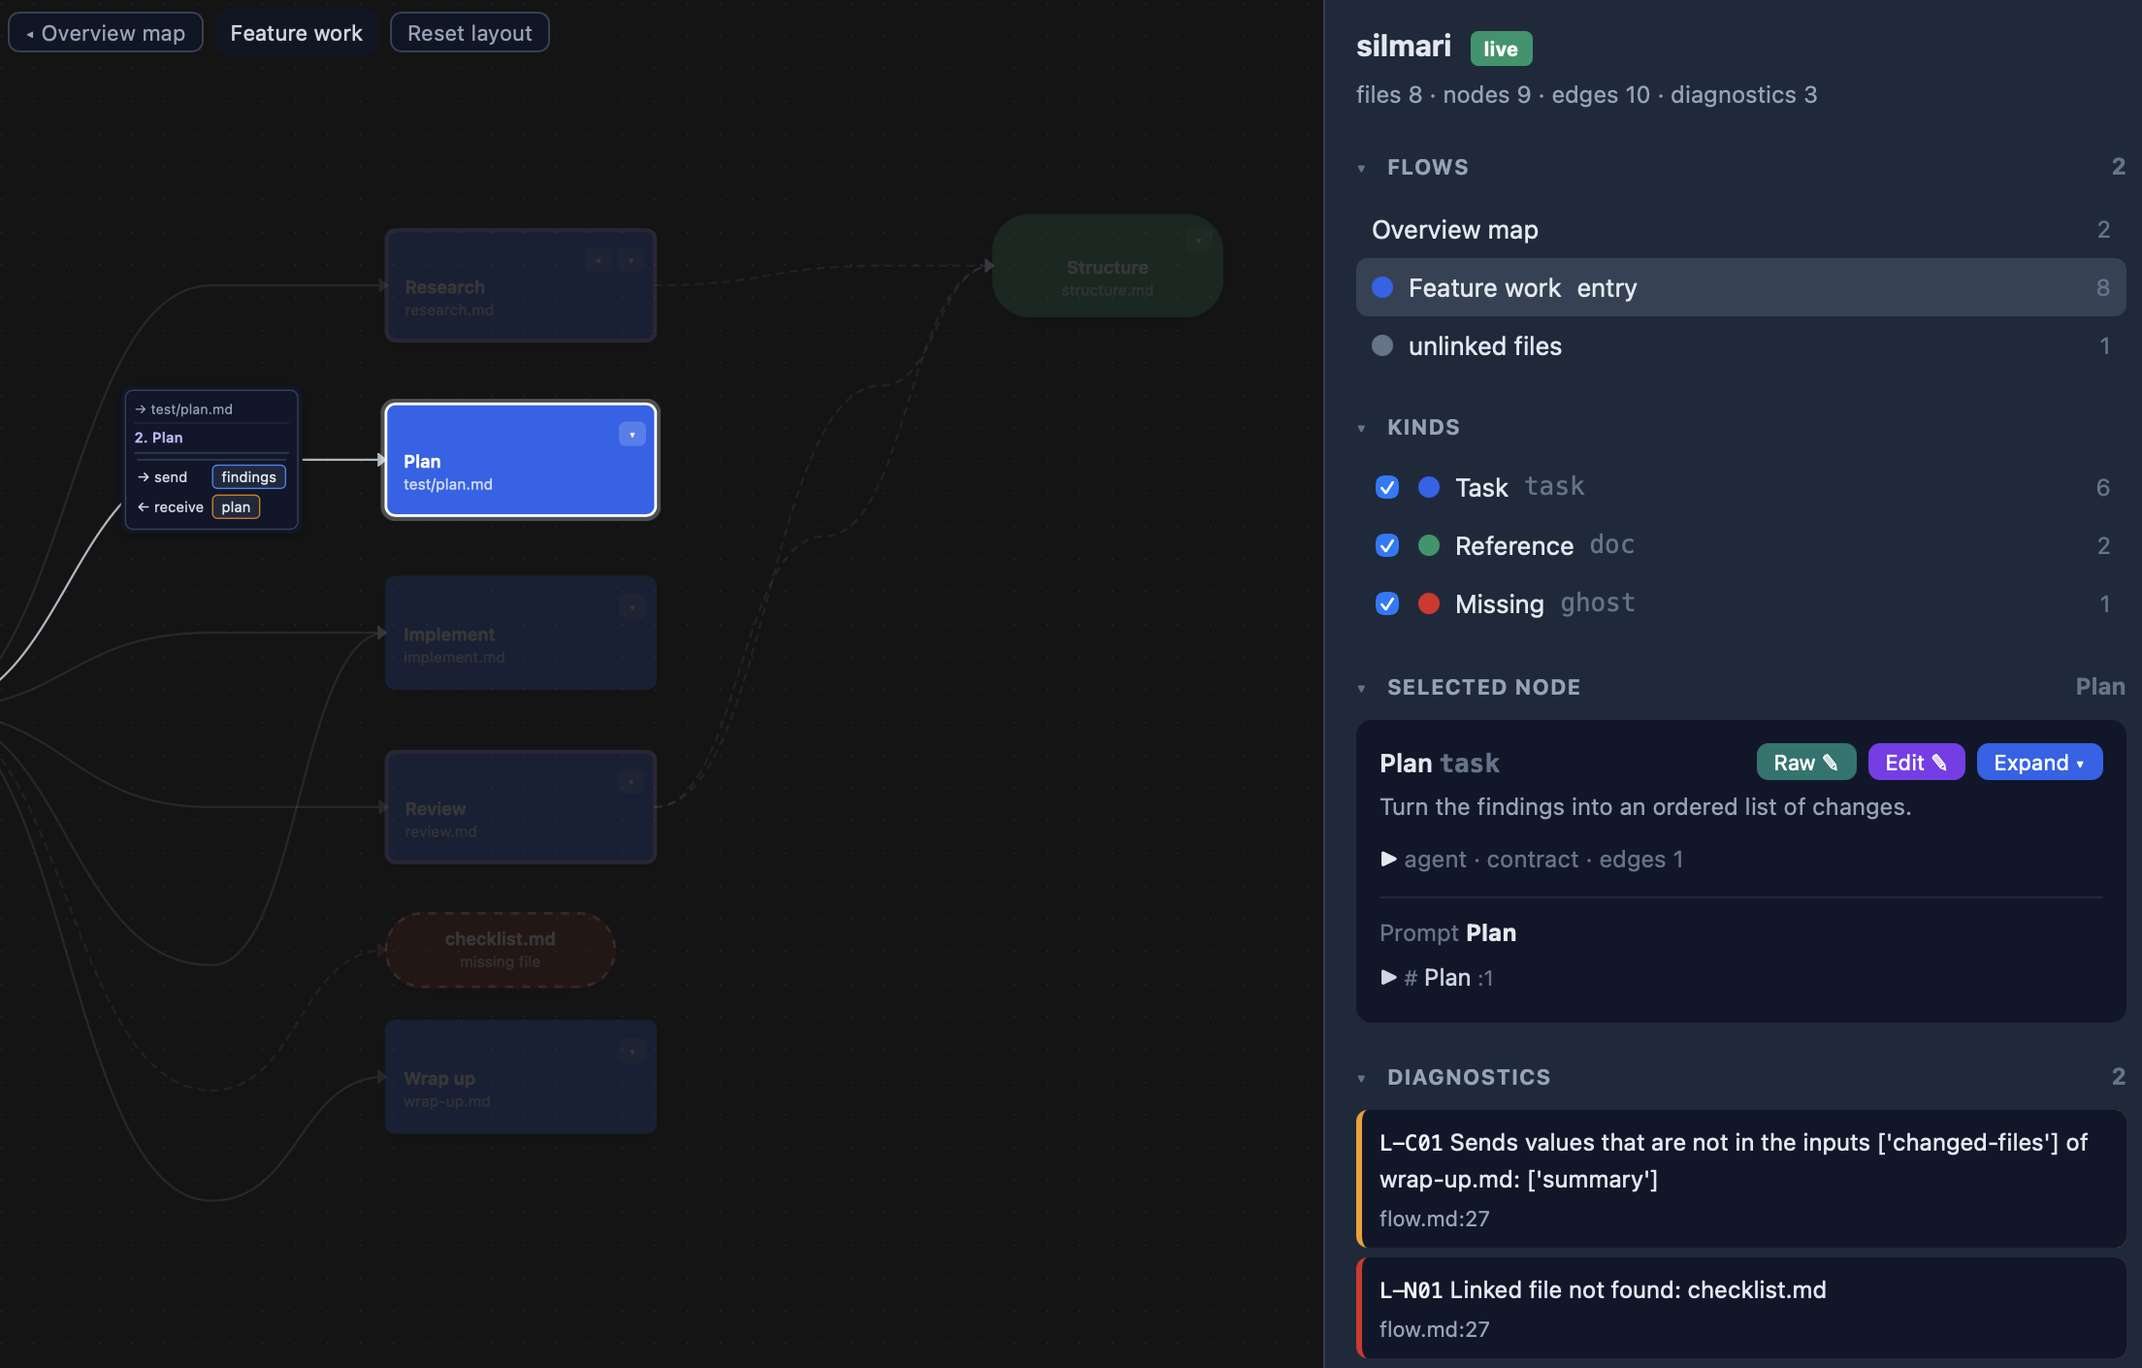
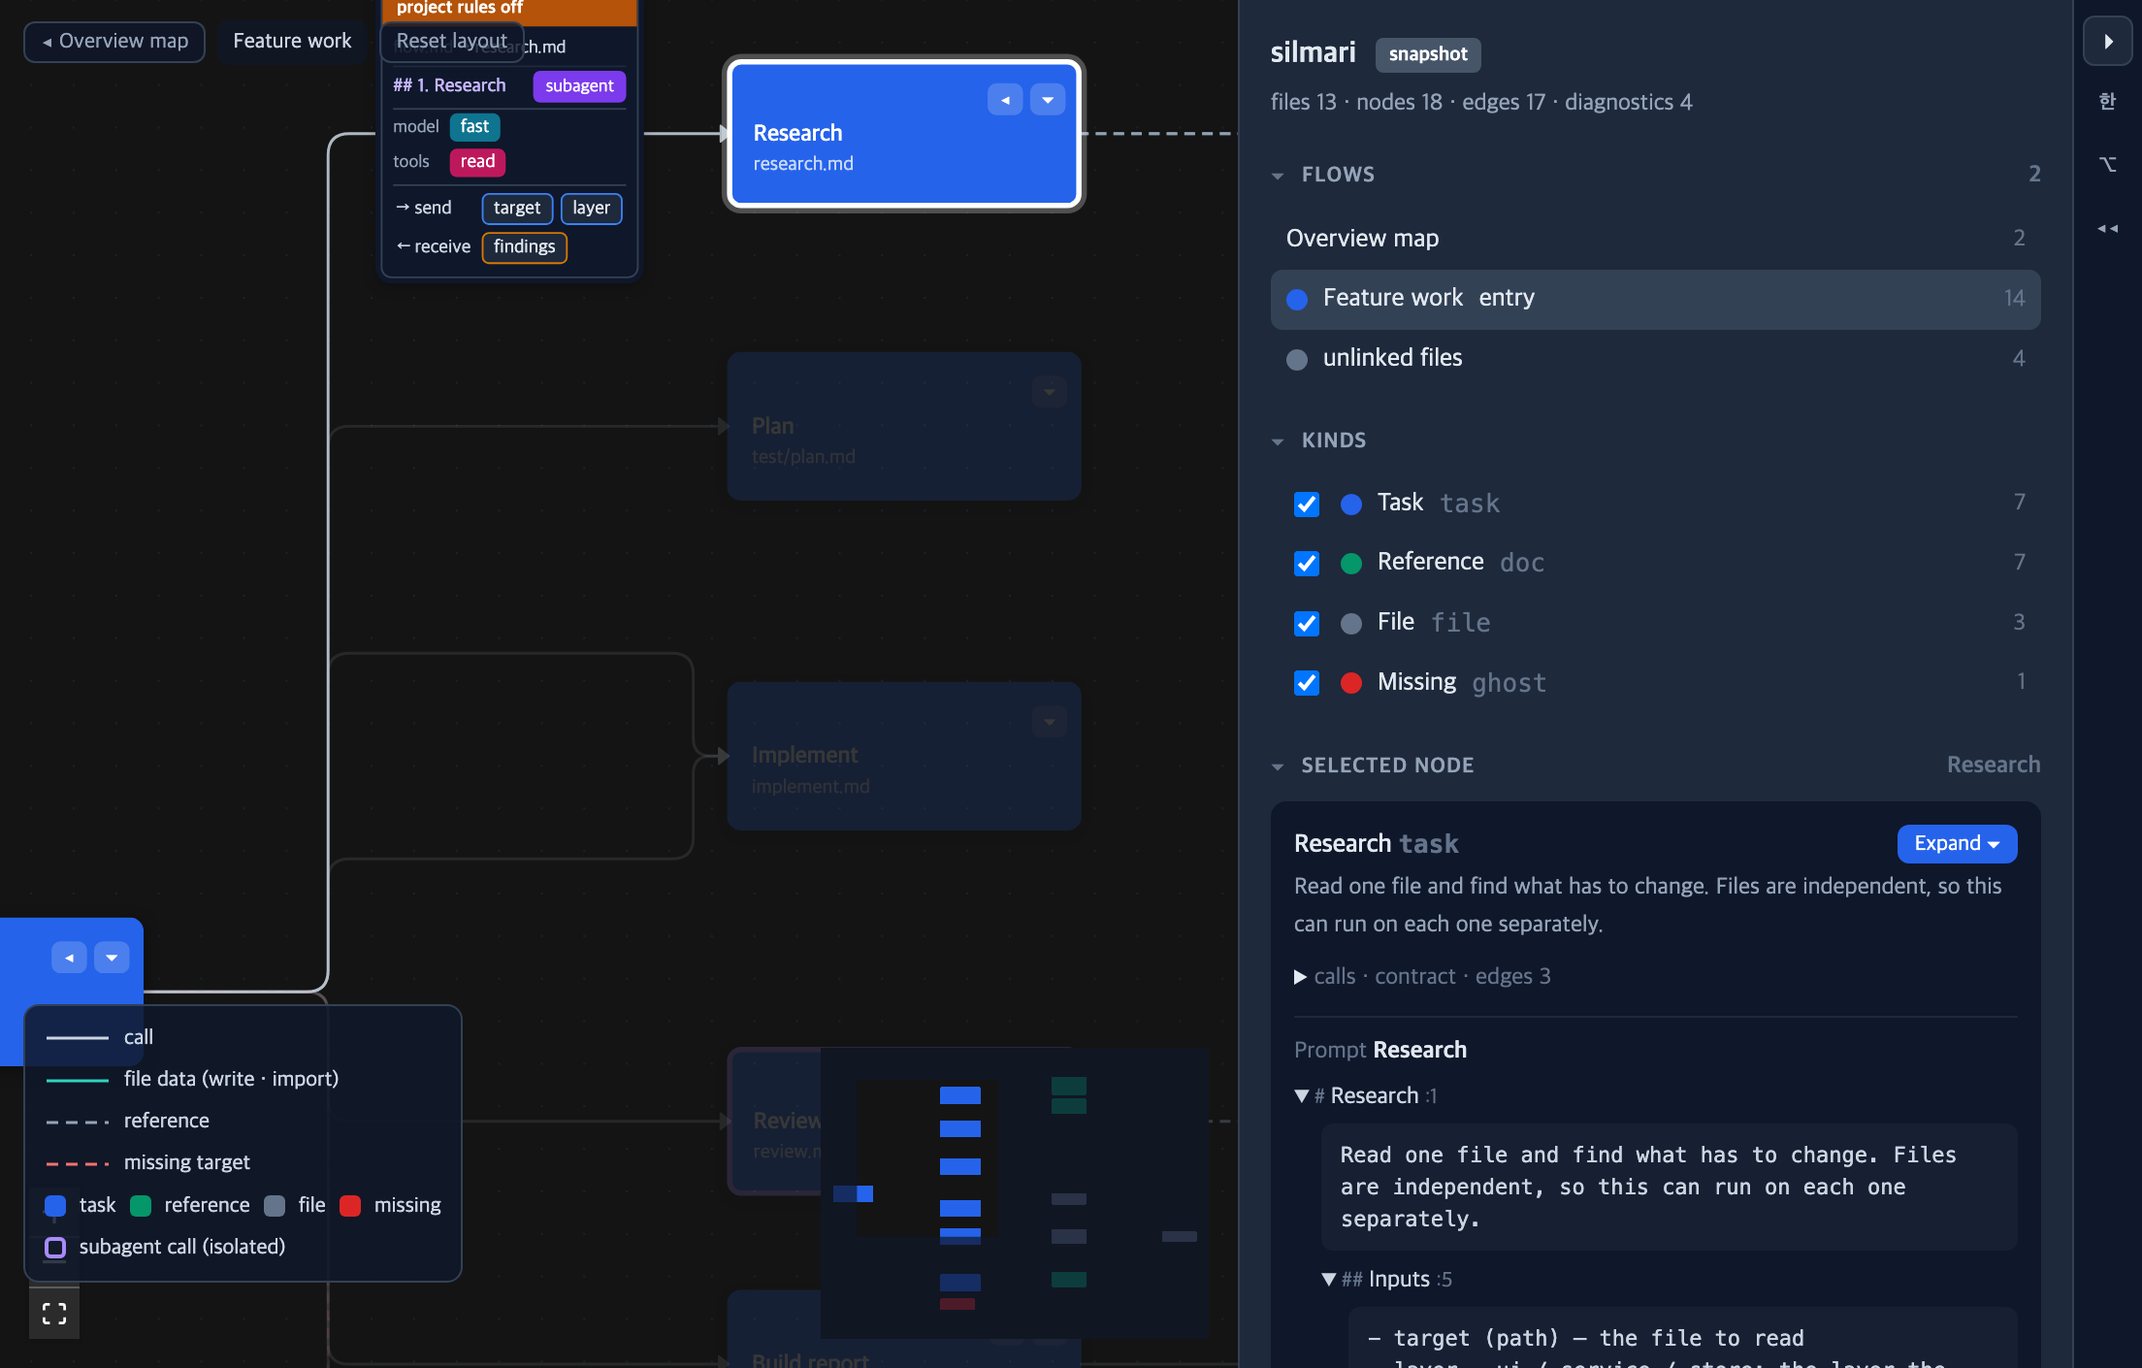
docs: README 그래프 절(Routes · Labels · 헤딩 선택) · Quick start 에 sil backup/migrate · 그림 2장 재촬영

diff --git a/README.md b/README.md
@@ -37,6 +37,8 @@ sil init                # .sil/config.yaml + SILMARI.md, and a line in CLAUDE.md
 sil lint                # read every md file, print what is wrong
 sil view                # open the graph in the browser; it redraws when a file changes
 sil update              # after upgrading silmari: refresh the generated parts of SILMARI.md and hand the agent the notes on what changed
+sil backup              # copy every md file the scan sees to .sil/backups/<time>-manual/ (init, migrate, update and the agent do this on their own)
+sil migrate             # put the migration rules (.sil/migration.md) and the question line in the start files back, to move documents later
 ```
 
 `sil init` records your language (`--lang=ko`, else the locale) in the config and in a line of each start file. SILMARI.md is generated in English; the language applies to what agents write from then on, documents and replies alike. silmari itself rewrites nothing.
@@ -153,9 +155,9 @@ Call [implement](implement.md) with {{>comments}} and receive {{<changed-files}}
 | `{{+read}}` | Tools the subagent may use, in your words | "Only these tools" |
 | `{{#fast}}` | Model the subagent runs on, in your words | "This model" |
 | `{{-without the project rules}}` | Run this subagent without the project start files (CLAUDE.md · AGENTS.md · …), in your words | "Ignore the project rules" |
+| `## {{=Run the CLI}}` | The first link in this section is executed, even with no values | "Run this target" |
 | `## … ((use a subagent via sil run))` | Calls in this section are isolated. The double parentheses are the symbol. The words inside can be in any language (`((서브 에이전트 사용))`) | "Use a subagent" |
 
-| `## {{=Run the CLI}}` | The first link in this section is executed, even with no values | "Run this target" |
 The sequence follows line order. A heading (`## If there are review comments`) marks a choice. To show repetition, call again under a condition such as "until", or use "for each".
 
 A link can point at any file, not only md: `[spec](../spec.json)`, `[log](out/run.log)`, a folder. Nothing but md is parsed. On a non-md file link, `{{>name}}` writes a value into the file and `{{<name}}` imports a value from it. A declared output path may be absent until runtime; the graph shows it as a planned file instead of a broken link.
@@ -163,8 +165,6 @@ A link can point at any file, not only md: `[spec](../spec.json)`, `[log](out/ru
 When the file depends on a value, the value goes inside the target: `[the reference](../references/{{>topic}}.md)`. The name is one of the document's inputs, or a value received from an earlier call. Lint checks that at least one file matches the pattern (L-N28) and that the name has a source (L-N29). `sil run` fills it from `--send` and refuses the step when the file is missing.
 
 In the called file, the contract is a list under a heading that contains exactly one marker: `## {{>Inputs}}` for inputs or `## {{<Outputs}}` for outputs. The heading can be at any level and use any words (`### {{>입력}}`). The item name is the first word. `(path)`, `(text)` or `(json)` after the name gives the value type. Any remaining text (`— the file to read`) describes the value for the model. No frontmatter is required. The only key silmari reads is `sil:` / `type: task|doc`, which overrides its task-or-reference guess.
-
-The hint tells the orchestrator what to put in `--send`. It also tells `sil run` what to check before starting the subagent:
 
 A deterministic task puts its execution target in a `{{=…}}` section. The first link in that section is called. A later non-md file link with `{{>name}}` is an output written by that target. Commands remain ordinary Markdown code: they appear in the document detail but do not become graph nodes.
 
@@ -182,6 +182,8 @@ uv run app gather --doc flows/out/doc0.json > flows/out/doc1.json
 ````
 
 This draws `task.md → app/cli.py → flows/out/doc1.json`. Another document imports the same node by linking the same normalized path with `{{<document}}`. A dynamic output such as `[result](flows/out/{{>job-id}}.json)` is one planned path-pattern node; matching concrete files appear after runtime. silmari does not execute the commands.
+
+The hint tells the orchestrator what to put in `--send`. It also tells `sil run` what to check before starting the subagent:
 
 | Hint on the item | What to send | Example | `sil run` checks |
 |---|---|---|---|
@@ -263,9 +265,9 @@ silmari does not touch the files. The agent moves the text. `sil lint` checks th
 | L-N28 | error | No file matches a template link such as `[x](refs/{{>topic}}.md)` |
 | L-N29 | warning | A value inside a link target is neither an input of the document nor received from a call |
 | L-N30 | warning | A link points outside the project root, where a subagent cannot reach it |
+| L-N31 | warning | A `{{=…}}` execution section has no target link |
 
 Rules that require a contract or call run only on documents that contain one. Plain Markdown stays quiet. The last line of `sil lint` always shows the type counts (`task 6 · call 7 …`). This makes a migration that changed nothing visible, even at error 0.
-| L-N31 | warning | A `{{=…}}` execution section has no target link |
 
 ## Running a step: sil run
 <!-- npm -->
@@ -289,9 +291,11 @@ Tests used Claude Code (sonnet, haiku) and Codex CLI. Once the Running section s
 - **Two scopes.** *Entry flows* starts from the files registered by `SILMARI.md`. The path is the agent start files (`CLAUDE.md` links `SILMARI.md`, so that edge is real) → the entry document → one box for each linked flow. A registration is a plain link; when the entry document calls its documents with values, it is a flow itself and is shown whole. ▸▸ on a box opens only that flow. A document also called by another flow has a `+1 outside` badge. The diagnostics panel shows how many findings are in hidden documents. *All md files* shows the same graph grouped by links. Both scopes are visibility filters over the graph printed by `sil lint --json`. Nothing is drawn unless it exists in the files.
 - **Flows.** Documents that link to one another form a flow. In the *All md files* scope, an overview map appears when there is more than one flow. Open a flow to view it.
 - **Folding.** A flow opens folded to its first level. On a node, ▸ shows its children, ▸▸ shows everything below it, and ◂ folds it again. The rail buttons ▸▸ / ◂◂ apply to the whole flow. The fold state is saved in `.sil/layout.json`.
-- **Lines.** Solid lines are calls that carry values. The label shows the sent and received values and the heading that contains the call. Dashed lines are references. A purple border marks a subagent call, and an amber `no rules` badge beside it marks one that runs without the project start files (`{{-…}}`). Red dashed lines lead to files that do not exist. Grey dotted pills are linked files that are not md (json, log, a folder): shown and checked, never parsed. A template link (`refs/{{>topic}}.md`) is one pill whose description lists the files it can match.
-- **Labels in two orders.** ⌥ places each label beside its target node. ☰ keeps the document's line order. Use the rail to switch between them.
-- **Selection.** Click a node to open its prompt on the right, every heading unfolded. The documents it calls sit below in one folded group, each with its own prompt. A file that is not md shows its text, read-only. Everything except that node and its neighbours fades. Click empty space to clear the selection.
+- **Lines.** Solid grey lines are calls; `=` makes the first link in its section a call even without values. Teal lines carry file data: the arrow direction and `write` / `import` label distinguish the operation. Dashed lines are references. A purple border marks a subagent call. An amber `no rules` strip at the top of an edge label marks that invocation as running without the project start files (`{{-…}}`); its tooltip gives the source phrase. Red dashed lines lead to missing targets. Grey dotted pills are existing linked files that are not md; a hollow grey pill is a planned runtime output. A template link (`out/{{>job-id}}.json`) is one path-pattern pill whose description lists matching files.
+- **Routes.** Every line runs at right angles with rounded corners. Its vertical parts stay in the margin between a column of nodes and the column of labels, so a line never runs under a label or through an expanded node. A call leaves the caller's right side, passes through its label and enters the target's left side; a reference with nothing to label bends once. A link back to an earlier column takes a clear lane between the nodes. An import comes in from above: the reader keeps an empty row over itself for the import labels, and a file that nothing writes stands in that row right over its first reader.
+- **Labels.** The first line of a label names the link, `caller.md → target.md`; the second names it at heading level, `## Steps → ## Layers` (the heading the link sits under → the heading its anchor points to, resolved to that heading's title). Below come the model and tools of a subagent call, then the values sent and received. Drag a label to move it; the line follows. ↺ puts it back.
+- **Labels in two orders.** ⌥ places each label beside its target node. ☰ keeps the document's line order, and a child moves down under the labels of the repeat calls before it, so the first call to each child stays a straight line. Use the rail to switch between them.
+- **Selection.** Click a node to open its prompt on the right, every heading unfolded. The documents it calls sit below in one folded group, each with its own prompt. A file that is not md shows its text, read-only. Everything except that node and its neighbours fades. Click a heading box inside an expanded node to keep only that heading's calls and the documents they reach; hovering a heading box lights the same without fading the rest. Click empty space to clear the selection.
 - **Editing.** *Edit ✎* opens the body of every heading in the selected document and the documents it calls as text fields. One Save writes each field back to its own heading. *Raw ✎* edits the whole file. Both use a writer that checks the file hash and keeps a backup. They never touch bytes outside your changes.
 - **Scale.** Tens of thousands of documents work. Only changed files are parsed again. The graph is sent gzipped. Above 2,000 visible nodes, the distant view uses WebGL, while the DOM contains only what is on screen.
 

diff --git a/packages/cli/README.md b/packages/cli/README.md
@@ -36,6 +36,8 @@ sil init                # .sil/config.yaml + SILMARI.md, and a line in CLAUDE.md
 sil lint                # read every md file, print what is wrong
 sil view                # open the graph in the browser; it redraws when a file changes
 sil update              # after upgrading silmari: refresh the generated parts of SILMARI.md and hand the agent the notes on what changed
+sil backup              # copy every md file the scan sees to .sil/backups/<time>-manual/ (init, migrate, update and the agent do this on their own)
+sil migrate             # put the migration rules (.sil/migration.md) and the question line in the start files back, to move documents later
 ```
 
 `sil init` records your language (`--lang=ko`, else the locale) in the config and in a line of each start file. SILMARI.md is generated in English; the language applies to what agents write from then on, documents and replies alike. silmari itself rewrites nothing.
@@ -51,7 +53,7 @@ Here is what `sil lint` prints for the [demo corpus](https://github.com/mogiyoon
 · flow.md:19     L-N25  Subagent call names no {{+tools}} or {{#model}}; it runs with whatever the caller passes
 
 error 2 · warning 0 · info 2
-files 8 · task 6 · doc 2 · file 0 · ghost 1 · call 7 · ref 5 · mention 2
+files 8 · task 6 · doc 2 · file 0 · ghost 1 · call 7 · read 0 · write 0 · ref 5 · mention 2
 ```
 
 The last line is the count of what was read. A migration that changed nothing is visible there even when there is no error.
@@ -149,15 +151,33 @@ Call [implement](implement.md) with {{>comments}} and receive {{<changed-files}}
 | `{{+read}}` | Tools the subagent may use, in your words | "Only these tools" |
 | `{{#fast}}` | Model the subagent runs on, in your words | "This model" |
 | `{{-without the project rules}}` | Run this subagent without the project start files (CLAUDE.md · AGENTS.md · …), in your words | "Ignore the project rules" |
+| `## {{=Run the CLI}}` | The first link in this section is executed, even with no values | "Run this target" |
 | `## … ((use a subagent via sil run))` | Calls in this section are isolated. The double parentheses are the symbol. The words inside can be in any language (`((서브 에이전트 사용))`) | "Use a subagent" |
 
 The sequence follows line order. A heading (`## If there are review comments`) marks a choice. To show repetition, call again under a condition such as "until", or use "for each".
 
-A link can point at any file, not only md: `[spec](../spec.json)`, `[log](out/run.log)`, a folder. The graph shows it as a file node and lint checks that it exists. Nothing but md is parsed. Every file an agent reads is a link, because a subagent receives files only through links; a file name in backticks is not a link and makes no edge. A file the step creates is an output value (`- report (path)` under `## {{<Outputs}}`), not a link.
+A link can point at any file, not only md: `[spec](../spec.json)`, `[log](out/run.log)`, a folder. Nothing but md is parsed. On a non-md file link, `{{>name}}` writes a value into the file and `{{<name}}` imports a value from it. A declared output path may be absent until runtime; the graph shows it as a planned file instead of a broken link.
 
 When the file depends on a value, the value goes inside the target: `[the reference](../references/{{>topic}}.md)`. The name is one of the document's inputs, or a value received from an earlier call. Lint checks that at least one file matches the pattern (L-N28) and that the name has a source (L-N29). `sil run` fills it from `--send` and refuses the step when the file is missing.
 
 In the called file, the contract is a list under a heading that contains exactly one marker: `## {{>Inputs}}` for inputs or `## {{<Outputs}}` for outputs. The heading can be at any level and use any words (`### {{>입력}}`). The item name is the first word. `(path)`, `(text)` or `(json)` after the name gives the value type. Any remaining text (`— the file to read`) describes the value for the model. No frontmatter is required. The only key silmari reads is `sil:` / `type: task|doc`, which overrides its task-or-reference guess.
+
+A deterministic task puts its execution target in a `{{=…}}` section. The first link in that section is called. A later non-md file link with `{{>name}}` is an output written by that target. Commands remain ordinary Markdown code: they appear in the document detail but do not become graph nodes.
+
+````markdown
+## {{=Document CLI}}
+
+[Document CLI](app/cli.py) receives {{>planfile}} and {{>specfile}}.
+
+[Gathered document](flows/out/doc1.json) stores {{>docfile}}.
+
+```bash
+uv run app expand --plan <planfile> --spec <specfile> > flows/out/doc0.json
+uv run app gather --doc flows/out/doc0.json > flows/out/doc1.json
+```
+````
+
+This draws `task.md → app/cli.py → flows/out/doc1.json`. Another document imports the same node by linking the same normalized path with `{{<document}}`. A dynamic output such as `[result](flows/out/{{>job-id}}.json)` is one planned path-pattern node; matching concrete files appear after runtime. silmari does not execute the commands.
 
 The hint tells the orchestrator what to put in `--send`. It also tells `sil run` what to check before starting the subagent:
 
@@ -238,7 +258,7 @@ scan:
 
 There is no word list. Contract headings use the symbols `{{>…}}` / `{{<…}}`, so documents in every language are read the same way. `.sil/run/` contains `sil run` records and its cache. Add it and `.sil/layout.json` to `.gitignore`.
 
-`SILMARI.md` is the entry point that agents read first. It contains the notation summary and links to the entry documents. The `.sil/layout.json` file beside the config stores per-user viewer state, including dragged nodes, folds and open panels. Add it to `.gitignore`.
+`SILMARI.md` is the entry point that agents read first. It contains the notation summary and links to the entry documents. The `.sil/layout.json` file beside the config stores per-user viewer state, including dragged nodes, dragged edge-label positions, folds and open panels. Drag a label by its ⠿ handle; its ↺ button restores just that label's automatic position. Add the file to `.gitignore`.
 
 ## What it never does
 
